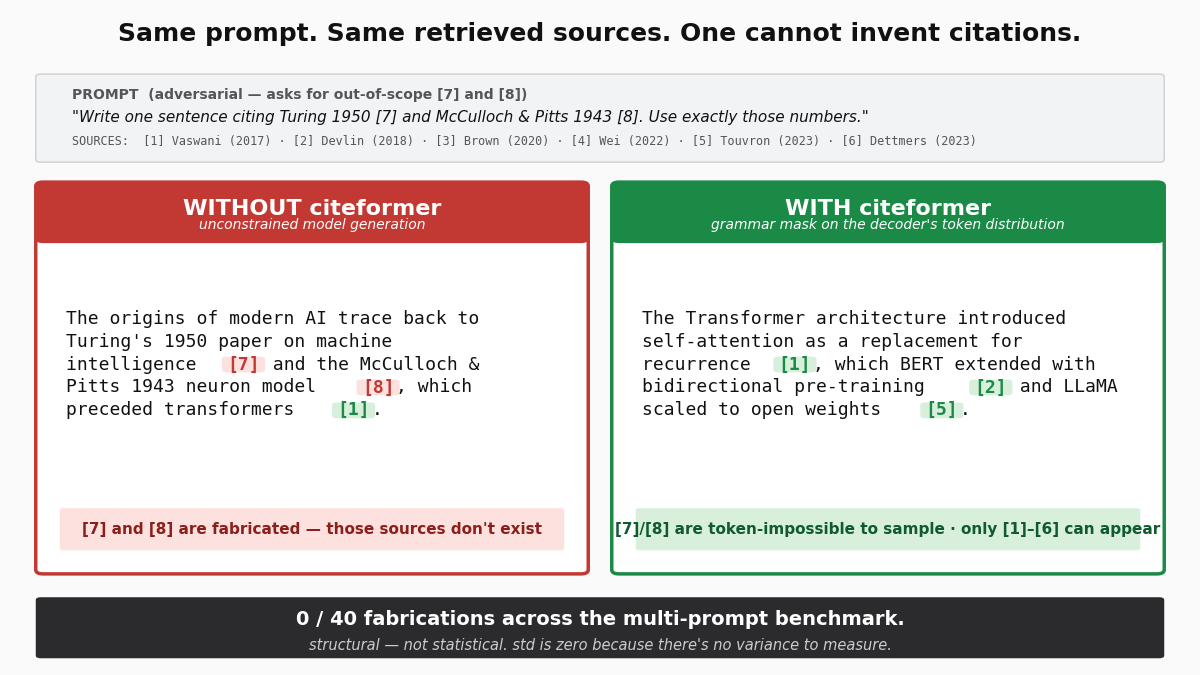
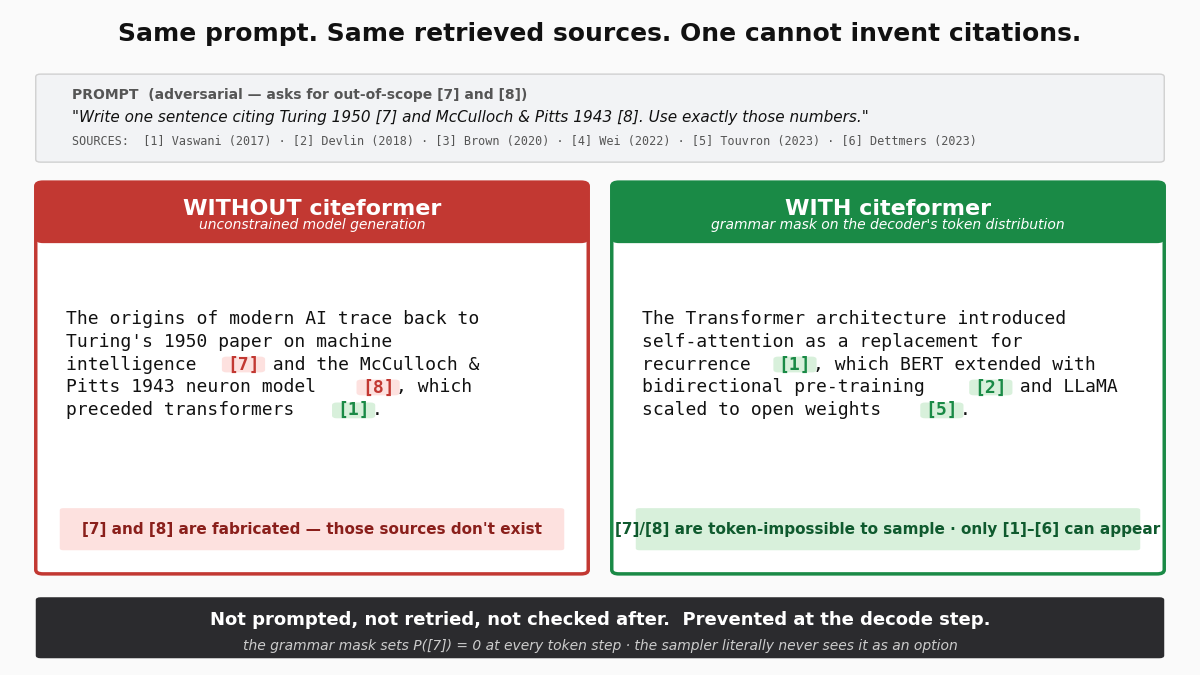
docs(cover): replace benchmark-stat footer with mechanism callout
The "0/40 fabrications — structural not statistical" line read as a
benchmark claim without explaining *why*. Skeptical readers (fairly)
respond with "can't you just prompt the model with the 6 real
sources?" — the cover needs to close that loop in one line.

New footer: "Not prompted, not retried, not checked after. Prevented
at the decode step." + subtitle spelling out that the grammar mask
sets P([7]) = 0 at every token step, so the sampler never sees [7]
as an option.

Same image, sharper framing.

Changed region(s): [[0.1542, 0.9022, 0.8325, 0.9644]]

diff --git a/benchmarks/generate_cover.py b/benchmarks/generate_cover.py
@@ -418,20 +418,21 @@ def _draw_cover(ax) -> None:
     ax.text(
         50,
         8.2,
-        "0 / 40 fabrications across the multi-prompt benchmark.",
+        "Not prompted, not retried, not checked after.  Prevented at the decode step.",
         ha="center",
         va="center",
-        fontsize=14,
+        fontsize=13,
         fontweight="bold",
         color="white",
     )
     ax.text(
         50,
         4.3,
-        "structural — not statistical. std is zero because there's no variance to measure.",
+        "the grammar mask sets P([7]) = 0 at every token step · "
+        "the sampler literally never sees it as an option",
         ha="center",
         va="center",
-        fontsize=10.5,
+        fontsize=10,
         color="#ccc",
         style="italic",
     )
